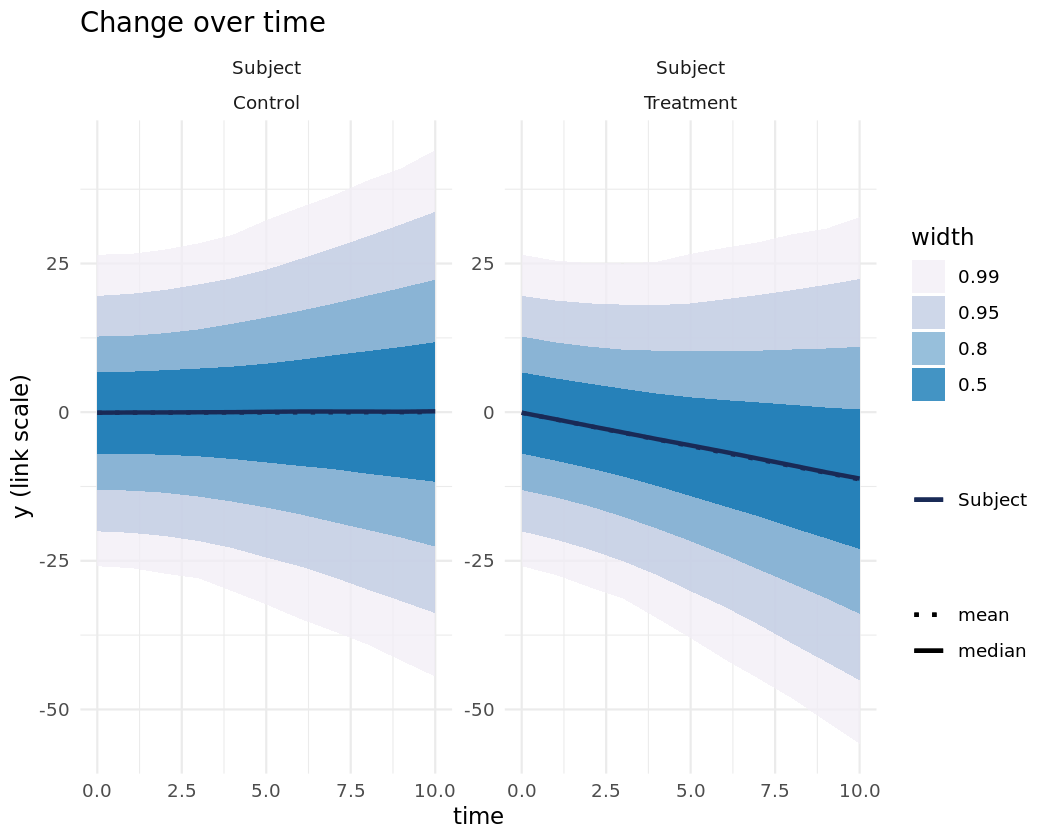
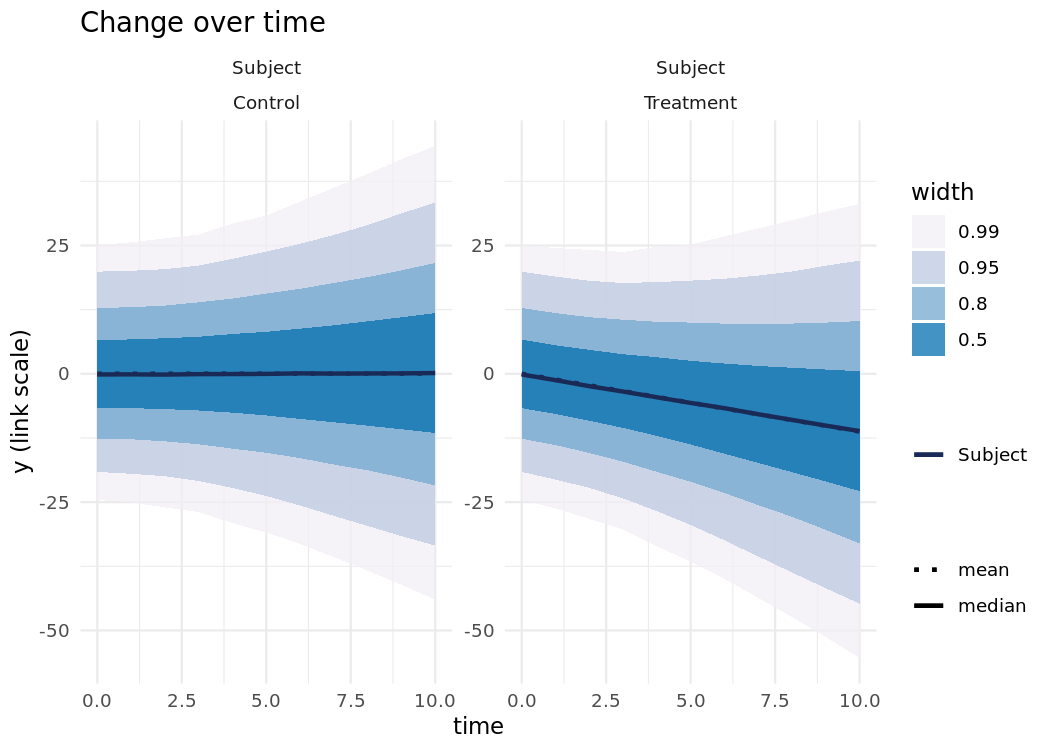
push

diff --git a/README.md b/README.md
@@ -81,7 +81,7 @@ p
 plot(p)
 ```
 
-<img src="man/figures/README-trend-1.png" width="80%" style="display: block; margin: auto;" />
+<img src="man/figures/README-trend-1.png" style="display: block; margin: auto;" />
 
 ``` r
 get_power(p, df = "satterthwaite")
@@ -107,7 +107,7 @@ get_power(p, df = "satterthwaite")
 #>        icc_slope = 0.05
 #>        var_ratio = 0.02
 #>      effect_size = -0.8 (Cohen's d [SD: pretest_SD])
-#>               df = 7.943809
+#>               df = 7.921788
 #>            alpha = 0.05
 #>            power = 68%
 ```
@@ -121,7 +121,7 @@ plot(p,
      type = "trend")
 ```
 
-<img src="man/figures/README-trends-varying-1.png" width="80%" style="display: block; margin: auto;" />
+<img src="man/figures/README-trends-varying-1.png" style="display: block; margin: auto;" />
 
 ``` r
 plot(update(p, n1 = 3), 
@@ -132,7 +132,7 @@ plot(update(p, n1 = 3),
 #> Warning in FUN(X[[i]], ...): no non-missing arguments to max; returning -Inf
 ```
 
-<img src="man/figures/README-trend-ridges-1.png" width="80%" style="display: block; margin: auto;" />
+<img src="man/figures/README-trend-ridges-1.png" style="display: block; margin: auto;" />
 
 ### Unequal cluster sizes
 
@@ -198,9 +198,9 @@ get_power(p, R = 100, progress = FALSE) # expected power by averaging over R rea
 #>               n3 = 5           (treatment)
 #>                    5           (control)
 #>                    10          (total)
-#>          total_n = 25.17       (control)
-#>                    25.17       (treatment)
-#>                    50.34       (total)
+#>          total_n = 24.73       (control)
+#>                    24.73       (treatment)
+#>                    49.46       (total)
 #>          dropout = No missing data
 #> icc_pre_subjects = 0.5
 #> icc_pre_clusters = 0
@@ -209,7 +209,7 @@ get_power(p, R = 100, progress = FALSE) # expected power by averaging over R rea
 #>      effect_size = -0.8 (Cohen's d [SD: pretest_SD])
 #>               df = 8
 #>            alpha = 0.05
-#>            power = 48% (MCSE: 1%)
+#>            power = 47% (MCSE: 1%)
 #> 
 #> NOTE: n2 is randomly sampled. Values are the mean from R = 100 realizations.
 ```
@@ -230,7 +230,7 @@ x <- get_power_table(p,
 plot(x)
 ```
 
-<img src="man/figures/README-power-curve-1.png" width="80%" style="display: block; margin: auto;" />
+<img src="man/figures/README-power-curve-1.png" style="display: block; margin: auto;" />
 
 Simulation
 ----------
@@ -273,8 +273,8 @@ summary(res, para = list("LMM" = "time:treatment",
 #> Fixed effects: 'time:treatment', 'treatment'
 #> 
 #>   model M_est theta M_se SD_est Power Power_bw Power_satt
-#>     LMM  -1.1  -1.1 0.32   0.32  0.94     0.93        NaN
-#>  ANCOVA -11.0   0.0 3.70   3.70  0.86     0.85       0.85
+#>     LMM  -1.1  -1.1 0.32   0.33  0.93     0.93        NaN
+#>  ANCOVA -11.0   0.0 3.70   3.80  0.84     0.83       0.83
 #> ---
 #> Number of simulations: 2000  | alpha:  0.05
 #> Time points (n1):  11
@@ -297,23 +297,23 @@ summary(res, model = "LMM")
 #> 
 #>          parameter  M_est theta est_rel_bias prop_zero is_NA
 #>  subject_intercept 100.00 100.0         0.00         0     0
-#>      subject_slope   2.00   2.0        -0.01         0     0
+#>      subject_slope   2.00   2.0         0.00         0     0
 #>              error 100.00 100.0         0.00         0     0
 #>        cor_subject  -0.39  -0.4        -0.02         0     0
 #> 
 #> Fixed effects 
 #> 
 #>       parameter M_est theta M_se SD_est Power Power_bw Power_satt
-#>     (Intercept) -0.07   0.0 1.30   1.30  0.05        .        NaN
-#>            time  0.00   0.0 0.25   0.24  0.04        .        NaN
-#>  time:treatment -1.10  -1.1 0.32   0.32  0.94     0.93        NaN
+#>     (Intercept) -0.03   0.0 1.30   1.30  0.05        .        NaN
+#>            time  0.00   0.0 0.25   0.26  0.06        .        NaN
+#>  time:treatment -1.10  -1.1 0.32   0.33  0.93     0.93        NaN
 #> ---
 #> Number of simulations: 2000  | alpha:  0.05
 #> Time points (n1):  11
 #> Subjects per cluster (n2 x n3):  40 (treatment)
 #>                                  40 (control)
 #> Total number of subjects:  80
-#> [Model: LMM] 13.35% of the models threw convergence warnings
+#> [Model: LMM] 12.65% of the models threw convergence warnings
 #> ---
 #> At least one of the models applied a data transformation during simulation,
 #> summaries that depend on the true parameter values will no longer be correct,
